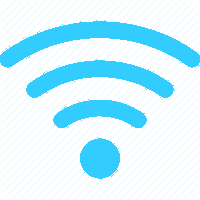
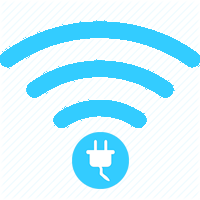
Added new images, added down vote function, images change according to vote total, changed UI look.

Changed region(s): [[0.36, 0.66, 0.66, 0.96]]

diff --git a/app/js/vendors/_esri.js b/app/js/vendors/_esri.js
@@ -1,4 +1,7 @@
 var map;
+image = "";
+//console.log(yelpCafes[id].voteCount);
+
 require([
   "esri/map",
   "esri/layers/FeatureLayer",
@@ -6,6 +9,8 @@ require([
   "esri/request",
   "esri/geometry/Point",
   "esri/graphic",
+  "esri/symbols/PictureMarkerSymbol",
+  "esri/renderers/ClassBreaksRenderer",
   "dojo/on",
   "dojo/_base/array",
   "dojo/domReady!"
@@ -16,6 +21,8 @@ require([
   esriRequest,
   Point,
   Graphic,
+  PictureMarkerSymbol,
+  ClassBreaksRenderer,
   on,
   array
 ) {
@@ -38,7 +45,7 @@ require([
       }
     }
   });
-
+    
   //create a feature collection for the flickr photos
   var featureCollection = {
     "layerDefinition": null,
@@ -55,7 +62,7 @@ require([
         "type": "simple",
         "symbol": {
           "type": "esriPMS",
-          "url": "images/wifi_3_ltblue.png",
+          "url": image,
           "contentType": "image/png",
 //        "width": 15,
 //        "height": 15
@@ -76,9 +83,13 @@ require([
       "name": "title",
       "alias": "Title",
       "type": "esriFieldTypeString"
+    },
+    {
+      "name": "voteCount",
+      "alias": "voteCount",
+      "type": "esriFieldTypeInteger"
     }]
   };
-
   //define a popup template
   var popupTemplate = new PopupTemplate({
     title: "{title}",
@@ -90,6 +101,18 @@ require([
     id: 'flickrLayer',
     infoTemplate: popupTemplate
   });
+  
+  var symbol = new PictureMarkerSymbol(image, 64, 64);
+  var renderer = new ClassBreaksRenderer(symbol, "voteCount");
+      
+  //var picBaseUrl = "https://static.arcgis.com/images/Symbols/Shapes/";
+   var weak = new PictureMarkerSymbol("images/wifi_1_ltblue.png", 64, 64).setOffset(0, 15);
+   var medium = new PictureMarkerSymbol("images/wifi_2_ltblue.png", 64, 64).setOffset(0, 15);
+   var strong = new PictureMarkerSymbol("images/wifi_3_ltblue.png", 64, 64).setOffset(0, 15);
+   renderer.addBreak(0, 5, weak);
+   renderer.addBreak(5, 10, medium);
+   renderer.addBreak(10, 15, strong);
+   featureLayer.setRenderer(renderer);
 
   //associate the features with the popup on click
   featureLayer.on("click", function(evt) {
@@ -123,8 +146,8 @@ function requestSucceeded(response, io) {
     array.forEach(arr, function(item) {
       var attr = {};
       attr["description"] = item.businessName;
-      attr["title"] = item.businessName ? item.businessName : "Flickr Photo";
-
+      attr["title"] = item.businessName ? item.businessName : "Business";
+      attr["voteCount"] = item.voteCount;
       var geometry = new Point(item);
 
       var graphic = new Graphic(geometry);

diff --git a/app/pages/home.html b/app/pages/home.html
@@ -4,7 +4,7 @@
   </div>
 </div>
 <div class="row">
-    <div class="col col-xs-12 col-md-10 col-md-offset-1" ng-repeat="cafe in yelpCafeKeys">{{yelpCafes[cafe].businessName}} <button class="btn-info" ng-click="upvote(cafe)">{{yelpCafes[cafe].voteCount}}</button></div>
+    <div class="col col-xs-12 col-md-10 col-md-offset-1" ng-repeat="cafe in yelpCafeKeys">{{yelpCafes[cafe].businessName}} <button class="btn-info" ng-click="upvote(cafe)">+</button> {{yelpCafes[cafe].voteCount}} <button class="btn-danger" ng-click="downvote(cafe)">-</button>
+</div>
 </div>
 <div id="map"></div>
-

diff --git a/app/js/controllers/app.controller.js b/app/js/controllers/app.controller.js
@@ -13,6 +13,8 @@
         // vm.title = 'Controller';
         $scope.title = "CryFi";
         $scope.upvote = upvote;
+        //Added by Karen
+        $scope.downvote = downvote;
 
         $timeout(function() {
             activate();
@@ -36,6 +38,12 @@
         function upvote (id) {
             _fbService.upvote(id);
             $scope.yelpCafes[id].voteCount += 1;
+        }
+        
+        //Added by Karen
+        function downvote (id) {
+            _fbService.downvote(id);
+            $scope.yelpCafes[id].voteCount -= 1;
         }
     }
 })();

diff --git a/app/index.html b/app/index.html
@@ -36,6 +36,7 @@
 
     </div>
     <!-- collapse section including links -->
+<!--
     <div class="collapse navbar-collapse" id="nav-links">
       <ul class="nav navbar-nav navbar-right">
         <li>
@@ -46,6 +47,7 @@
         </li>
       </ul>
     </div>
+-->
   </nav>
   <div class="container-fluid">
     <div ng-view></div>
